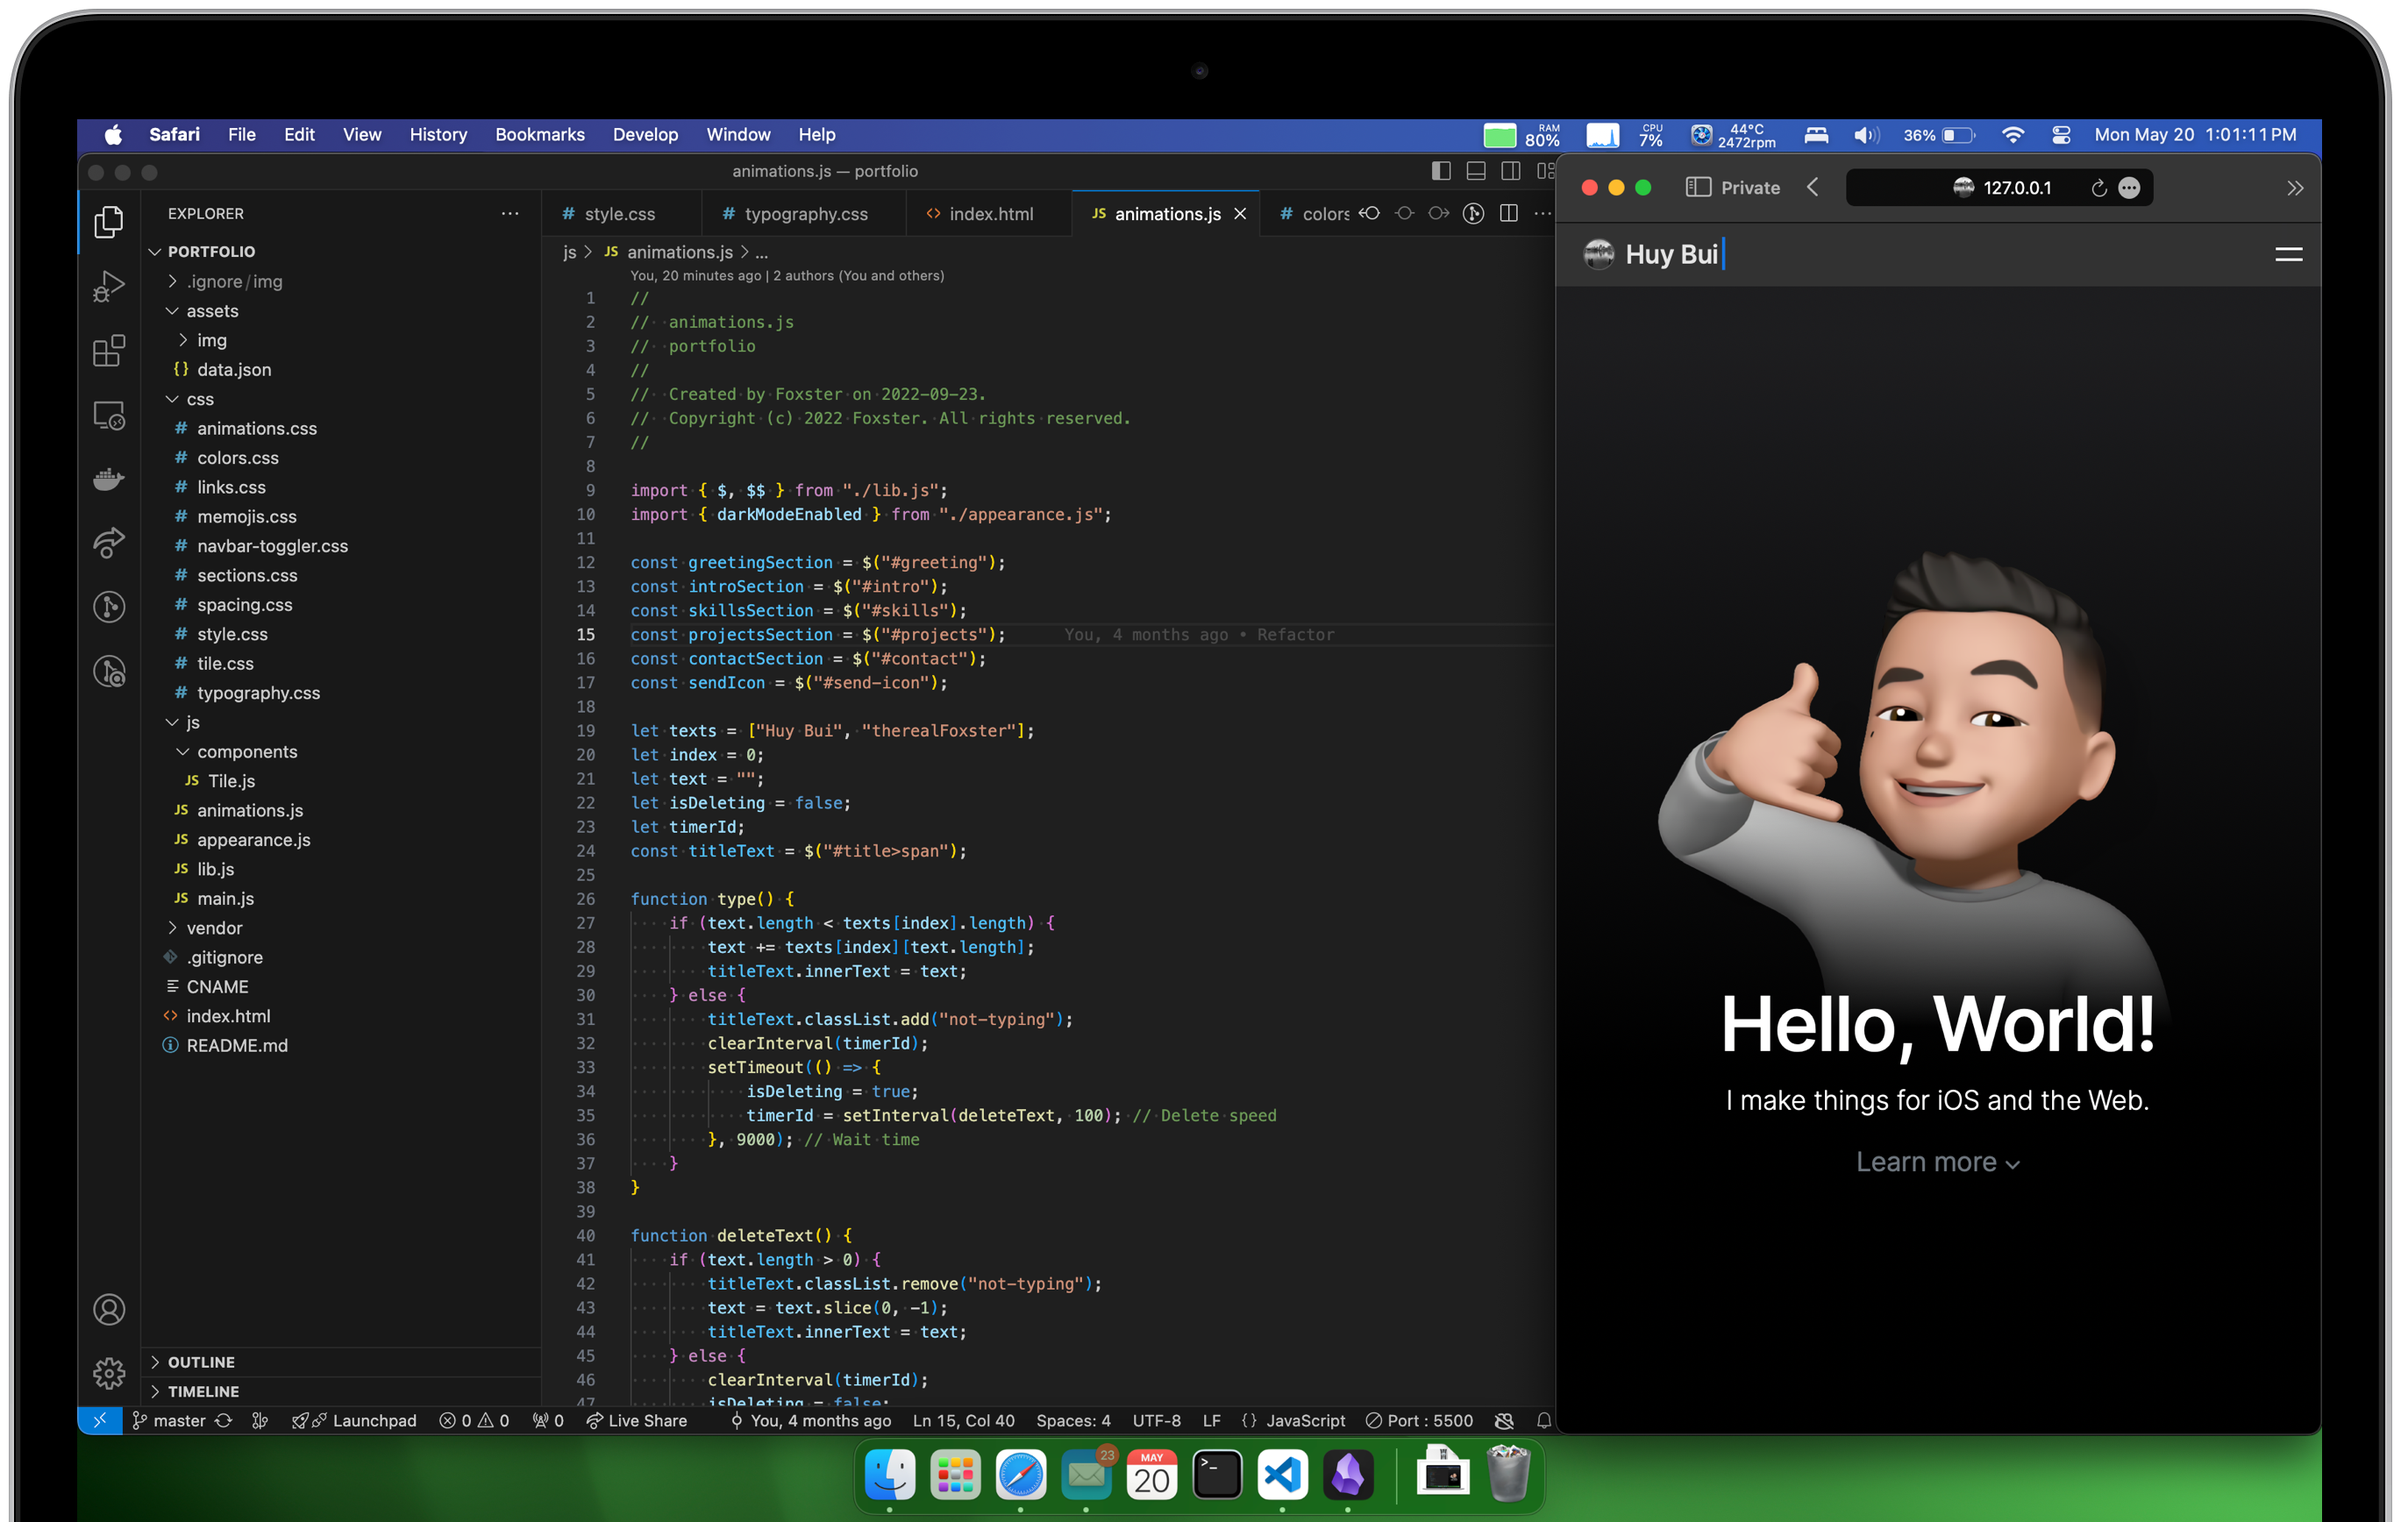
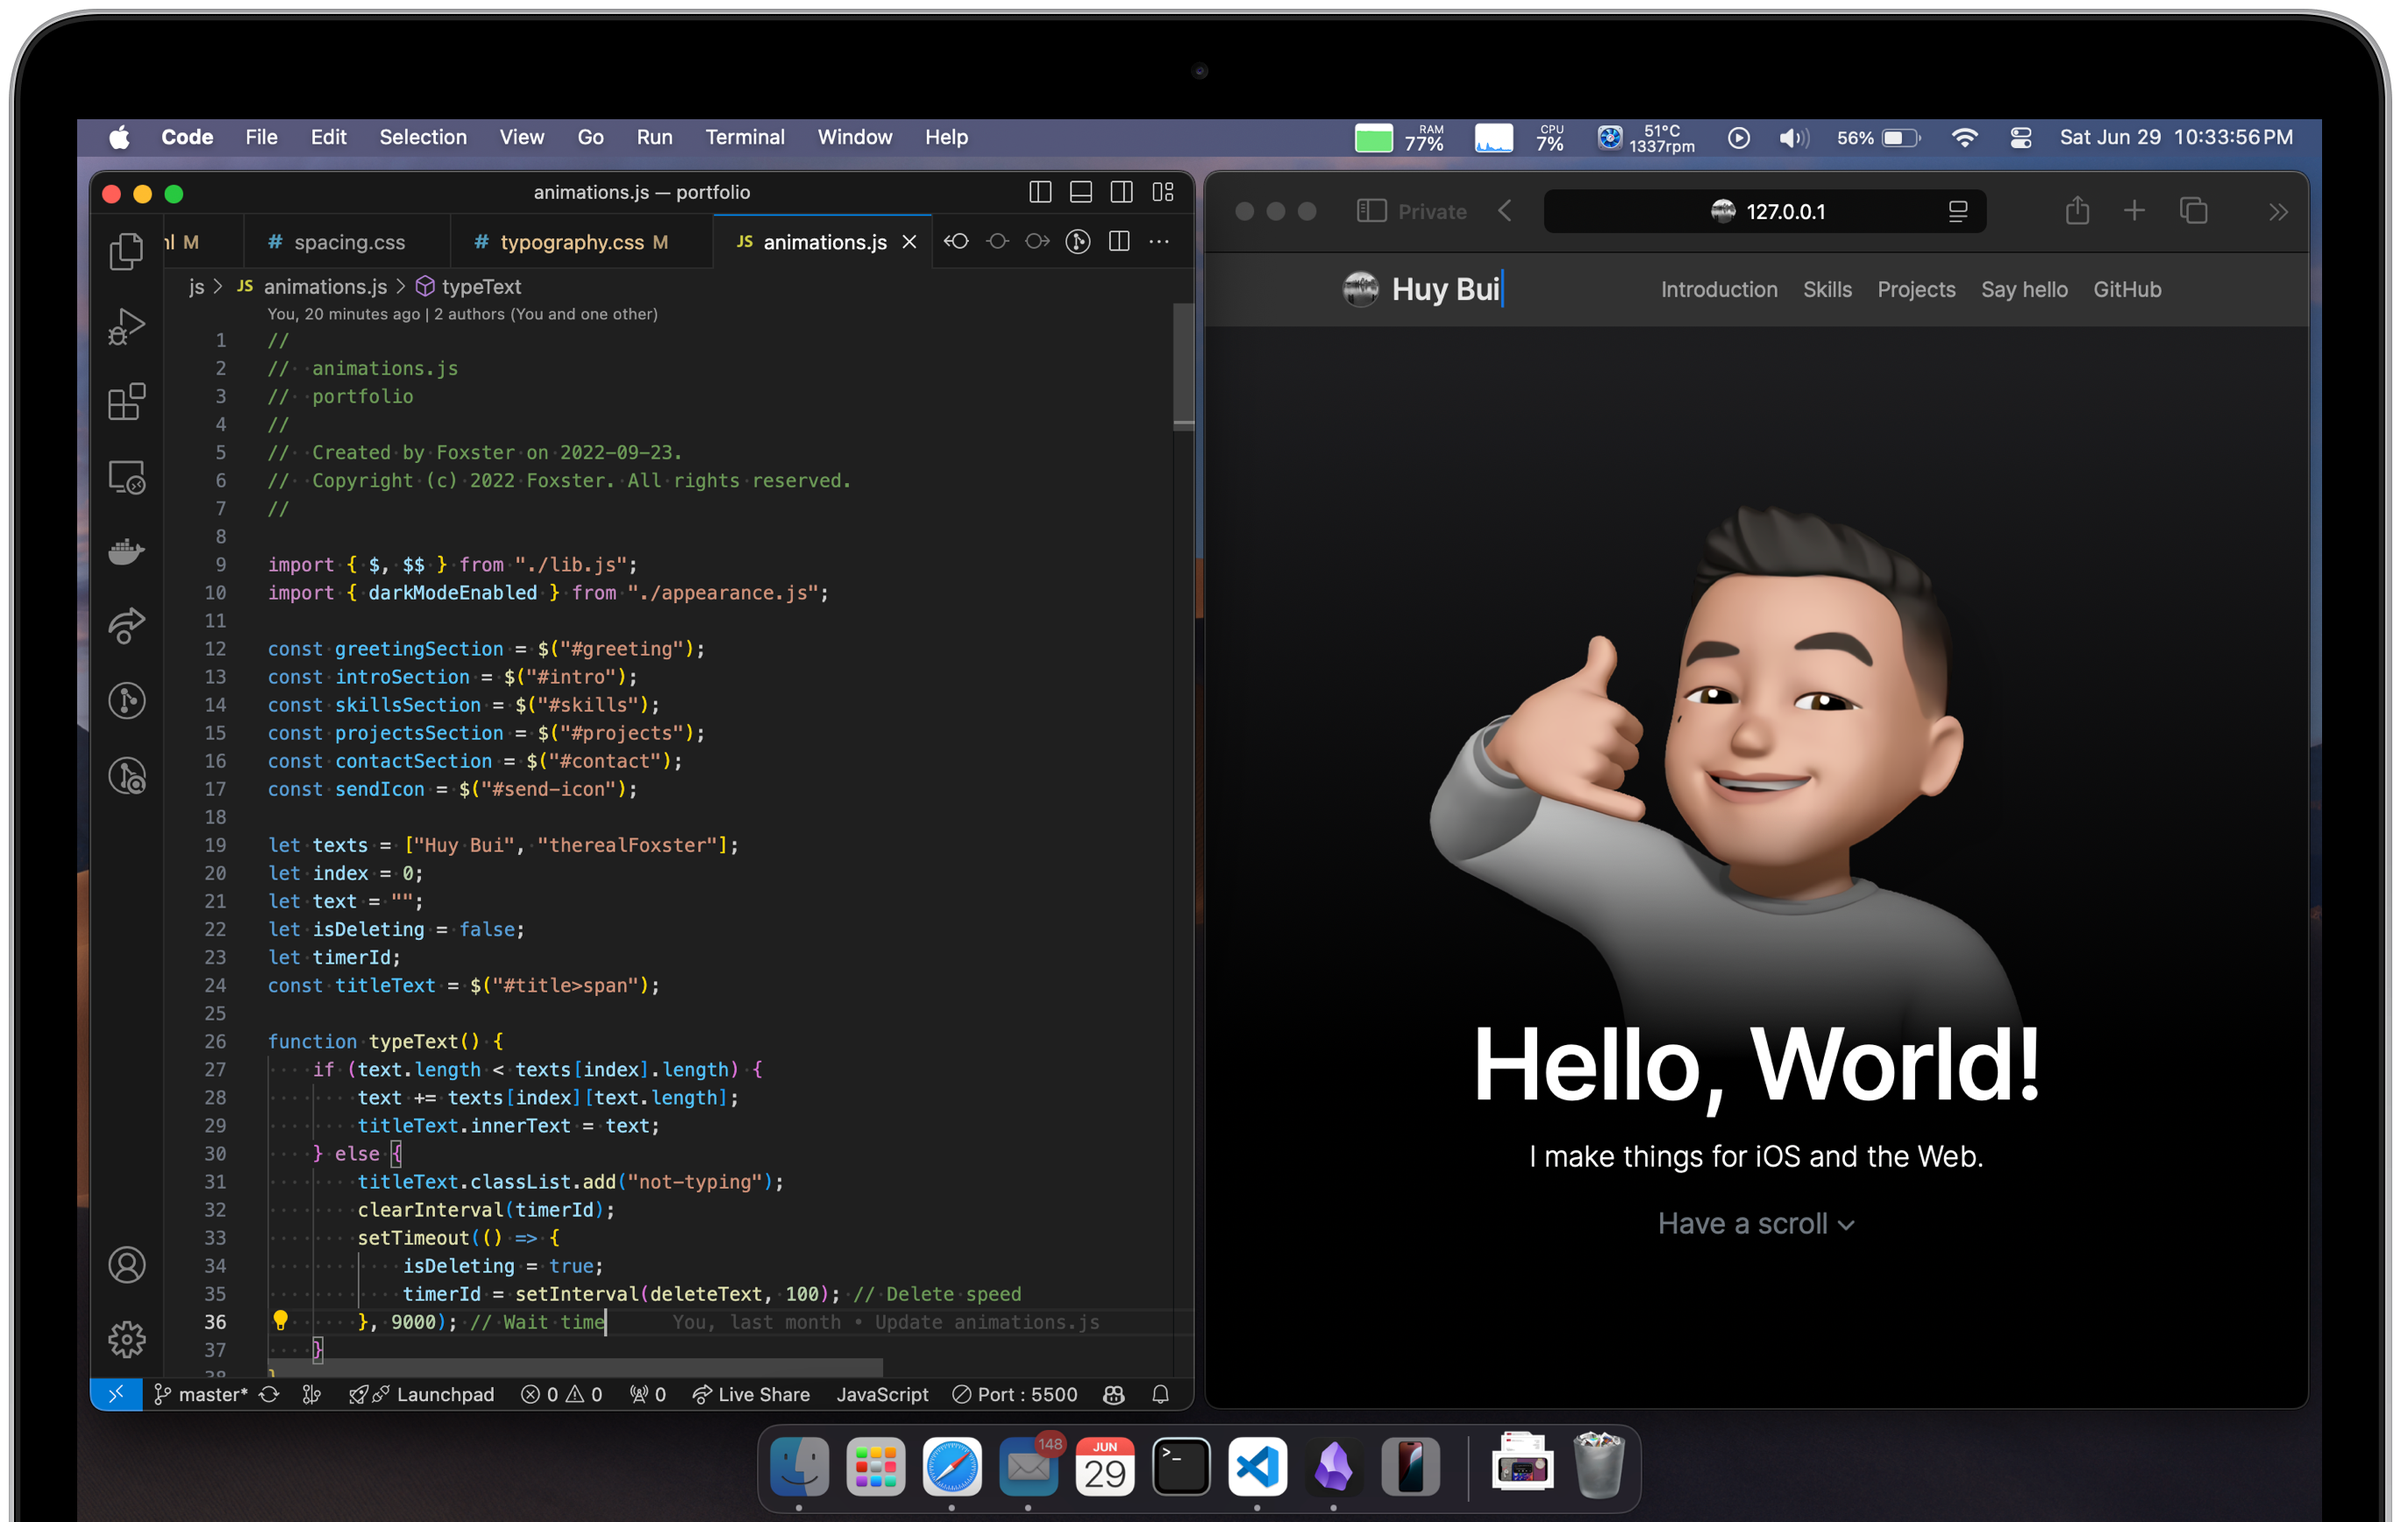
Minor changes

Changed region(s): [[0.031, 0.0622, 0.9934, 1.0], [0.2794, 0.2488, 0.4346, 0.28], [0.3725, 0.4666, 0.4036, 0.4977]]

diff --git a/index.html b/index.html
@@ -98,7 +98,7 @@
         <h1 class="initially-hidden text-white text-center display-1 fw-kinda-bold"></h1>
         <p class="initially-hidden text-white text-center fs-5 fw-light"></p>
         <p id="learn-more" class="initially-hidden text-muted text-center fs-5 fw-normal">
-          Learn more <i class="bi bi-chevron-down"></i>
+          Have a scroll <i class="bi bi-chevron-down"></i>
         </p>
       </div>
     </div>

diff --git a/css/typography.css b/css/typography.css
@@ -45,6 +45,9 @@ h2 {
 
 /* Before md */
 @media (max-width: 767px) {
+  .fs-5 {
+    font-size: 1.15rem!important;
+  }
   .display-1 {
     font-size: calc(1.75rem + 5vw);
   }
